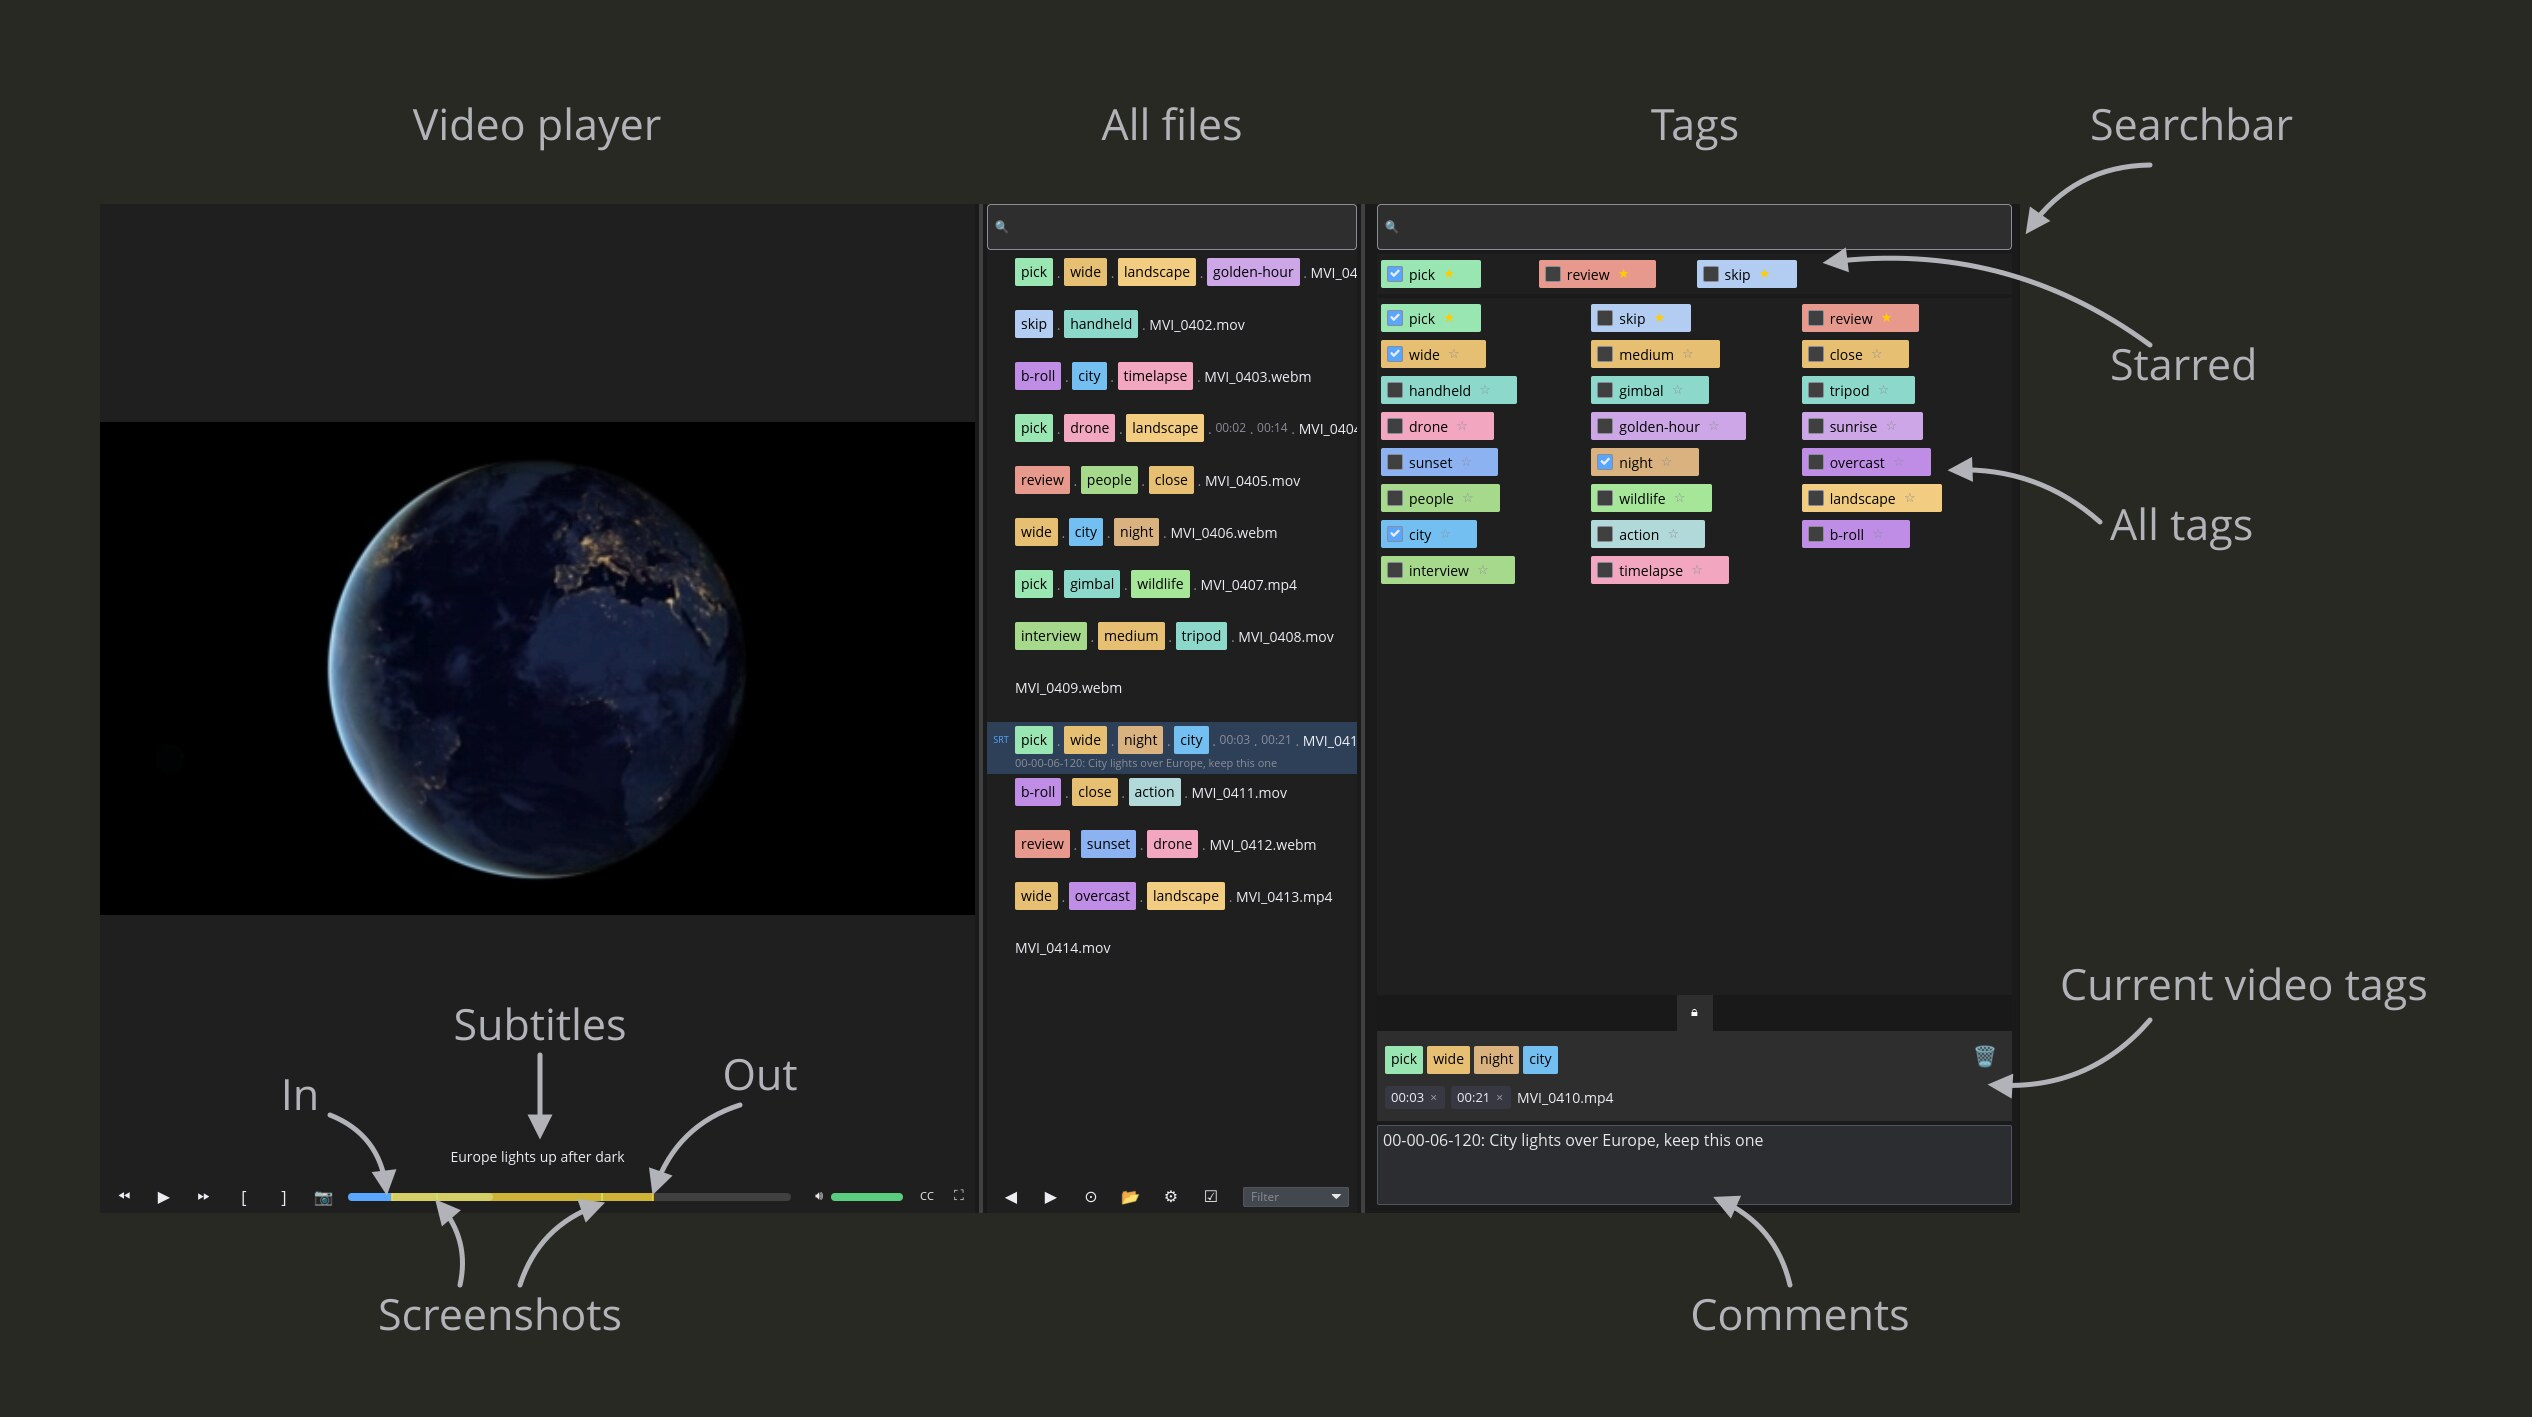
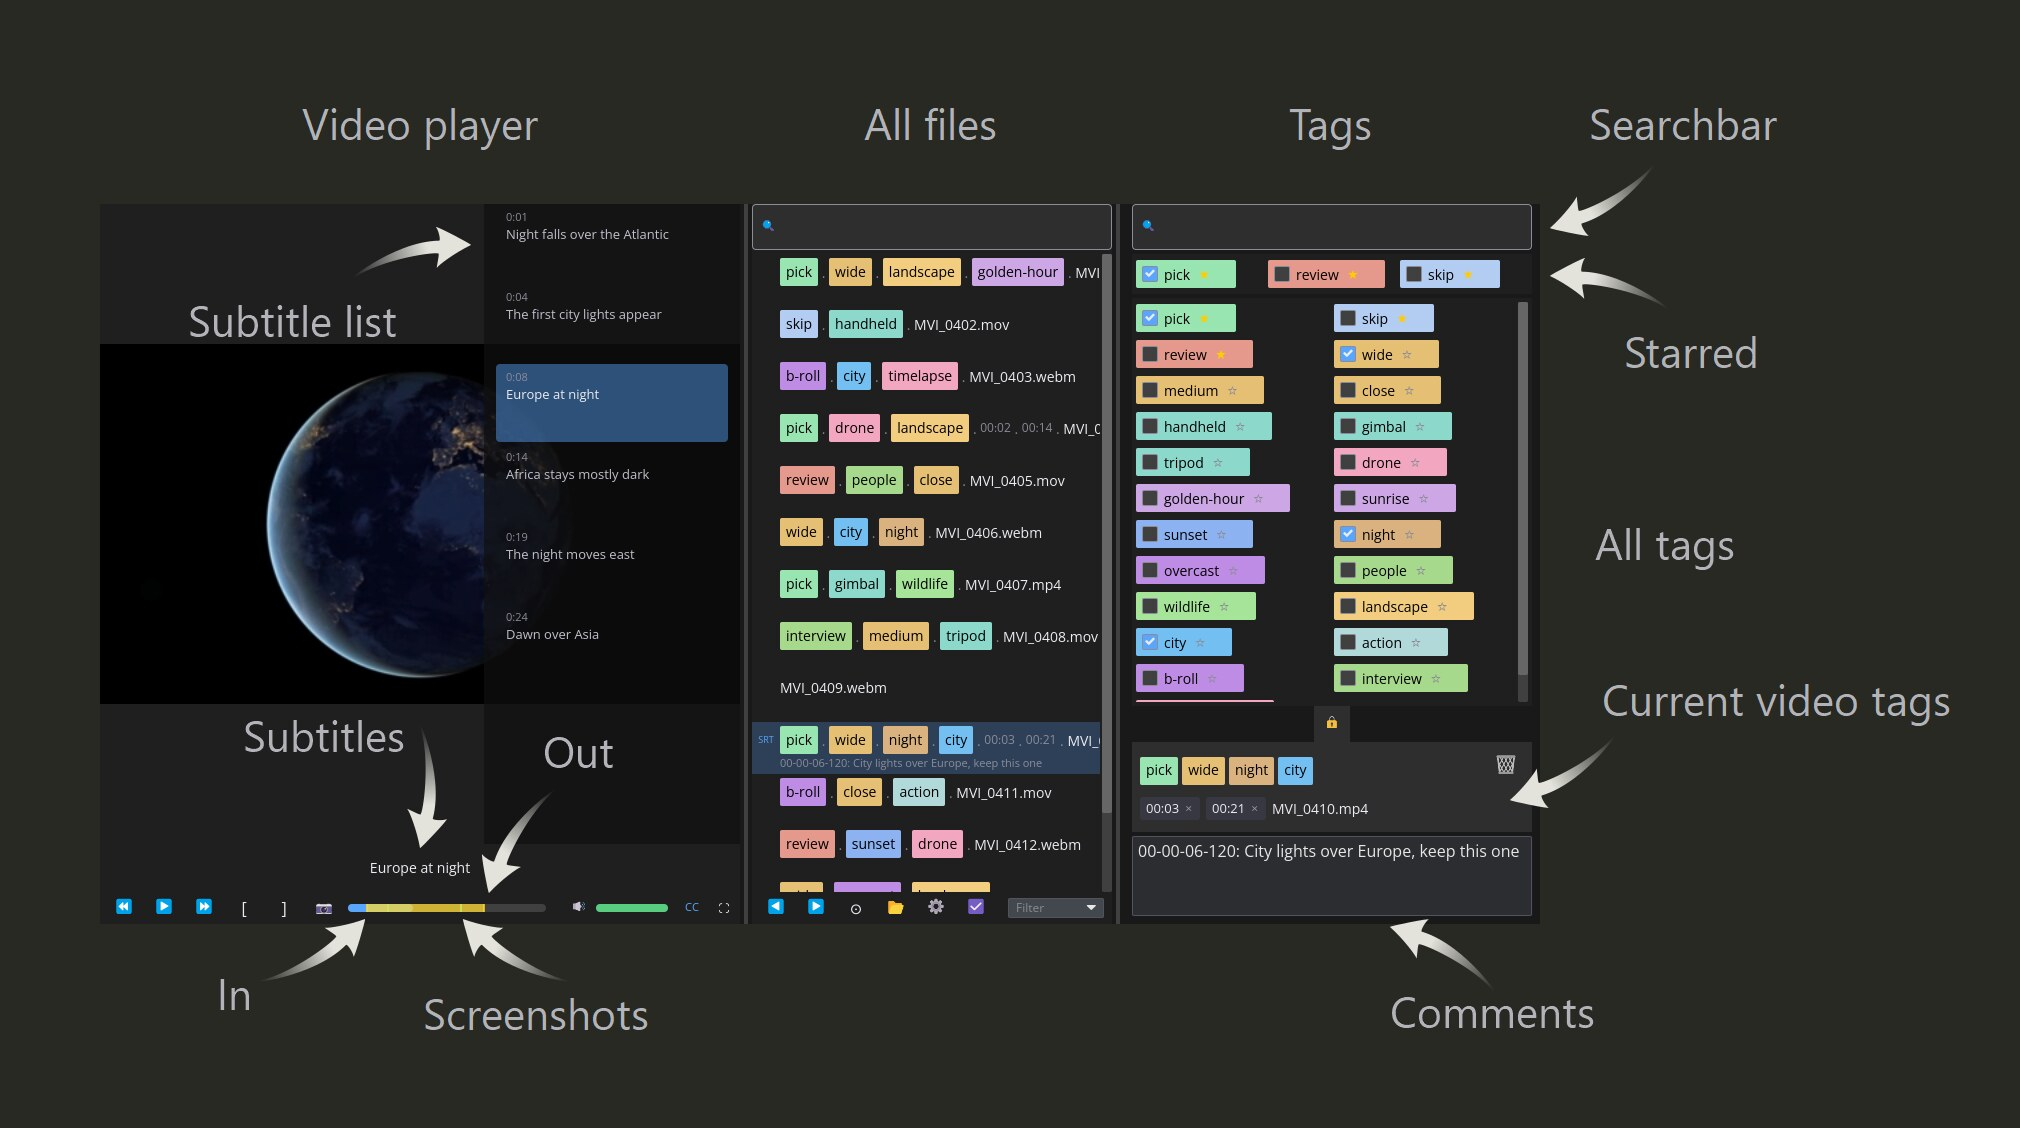
README screenshots rendered by hand, with the arrows of the original PSD
The Screenshots workflow is gone: docs/screenshots/render.sh now runs locally
(Windows Git Bash or Linux) when a change makes the images wrong.

- One arrow shape taken from docs/frename-screenshot.psd (vector path and
  fade), placed by tip and direction, only rotated or mirrored.
- Smaller window (1440x720) so every panel is full.
- The main screenshot shows the subtitle list (scenario: subtitle_list).
- New monochrome tags screenshot (demo switch --mono), in README Settings.

diff --git a/src/demo.rs b/src/demo.rs
@@ -1,6 +1,6 @@
 //! Demo mode: `frename --demo <scenario.toml> --out <png>` opens a staged folder in a known state,
-//! saves a screenshot of the main window and exits. CI uses it for the README screenshots
-//! (`docs/screenshots/`).
+//! saves a screenshot of the main window and exits. `docs/screenshots/render.sh` uses it for the
+//! README screenshots.
 //!
 //! Everything runs in a throwaway work folder: the staged clips and the app's own database and
 //! log (`FRENAME_DATA_DIR`), so the user's files and settings are never touched.
@@ -106,12 +106,15 @@ impl DemoRun {
     }
 }
 
-/// What to do once the video is ready: pause at the scenario's time, and turn on batch mode with
-/// every file checked when asked to.
+/// What to do once the video is ready: pause at the scenario's time, open the subtitle list when
+/// the scenario asks for it, and turn on batch mode with every file checked when asked to.
 fn steps(scenario: &DemoScenario, batch: bool) -> Vec<folder_workspace::Message> {
-    let mut steps = vec![folder_workspace::Message::MediaViewer(
-        media_viewer::Message::Video(video::Message::Seek(scenario.seek)),
-    )];
+    let video =
+        |message| folder_workspace::Message::MediaViewer(media_viewer::Message::Video(message));
+    let mut steps = vec![video(video::Message::Seek(scenario.seek))];
+    if scenario.subtitle_list {
+        steps.push(video(video::Message::ToggleCueList));
+    }
     if batch {
         steps.push(folder_workspace::Message::Folder(
             folder::Message::SetBatchMode(true),
@@ -140,13 +143,15 @@ fn save_png(shot: &window::Screenshot, expected: (u32, u32), path: &Path) -> Res
         .map_err(|e| format!("cannot save {}: {e}", path.display()))
 }
 
-/// What `--demo <scenario> --out <png> [--batch]` asks for.
+/// What `--demo <scenario> --out <png> [--batch] [--mono]` asks for.
 #[derive(Debug, Clone, PartialEq)]
 pub struct DemoArgs {
     pub scenario: PathBuf,
     pub out: PathBuf,
     /// Show batch mode with every file checked: one scenario gives both README screenshots.
     pub batch: bool,
+    /// Turn on the monochrome tags setting.
+    pub mono: bool,
 }
 
 /// The demo the command line asks for; `None` for a normal start.
@@ -167,6 +172,7 @@ pub fn demo_args(args: &[String]) -> Option<Result<DemoArgs, String>> {
             scenario,
             out,
             batch: args.iter().any(|a| a == "--batch"),
+            mono: args.iter().any(|a| a == "--mono"),
         })
     }))
 }
@@ -204,7 +210,13 @@ pub fn prepare(args: &DemoArgs, work: &Path) -> Result<DemoRun, String> {
     let folder = work.join("folder");
     let file = frename_core::demo::stage(&scenario, scenario_dir, &folder)
         .map_err(|e| format!("cannot stage the demo folder: {e}"))?;
-    frename_core::demo::seed(&frename_core::AppDatabase::new(), &scenario, &folder, &file);
+    frename_core::demo::seed(
+        &frename_core::AppDatabase::new(),
+        &scenario,
+        &folder,
+        &file,
+        args.mono,
+    );
     Ok(DemoRun::new(
         scenario,
         args.out.clone(),
@@ -233,17 +245,19 @@ mod tests {
             Some(Ok(DemoArgs {
                 scenario: "a.toml".into(),
                 out: "a.png".into(),
-                batch: false
+                batch: false,
+                mono: false
             }))
         );
         assert_eq!(
             demo_args(&args(&[
-                "frename", "--batch", "--out", "a.png", "--demo", "a.toml"
+                "frename", "--batch", "--out", "a.png", "--demo", "a.toml", "--mono"
             ])),
             Some(Ok(DemoArgs {
                 scenario: "a.toml".into(),
                 out: "a.png".into(),
-                batch: true
+                batch: true,
+                mono: true
             }))
         );
     }
@@ -286,6 +300,20 @@ mod tests {
         assert!(matches!(
             batch[2],
             folder_workspace::Message::Folder(folder::Message::ToggleAllChecked)
+        ));
+    }
+
+    #[test]
+    fn the_subtitle_list_opens_only_when_the_scenario_asks() {
+        let mut with_list = scenario();
+        with_list.subtitle_list = true;
+        let steps = steps(&with_list, false);
+        assert_eq!(steps.len(), 2);
+        assert!(matches!(
+            steps[1],
+            folder_workspace::Message::MediaViewer(media_viewer::Message::Video(
+                video::Message::ToggleCueList
+            ))
         ));
     }
 

diff --git a/crates/frename-core/src/demo.rs b/crates/frename-core/src/demo.rs
@@ -32,6 +32,9 @@ pub struct DemoScenario {
     /// A picture in `source` copied for every screenshot marker.
     #[serde(default)]
     pub snap_image: Option<String>,
+    /// Open the subtitle list over the picture (the CC button).
+    #[serde(default)]
+    pub subtitle_list: bool,
     /// The staged files, oldest first: the file list shows them in this order.
     pub files: Vec<DemoFile>,
 }
@@ -182,8 +185,15 @@ pub fn stage(
 
 /// Store the app state the scenario shows: window at the top left with its size and panel
 /// widths, videos paused when opened, comments in `.comment.txt` (a staged comment is one), and
-/// `file` in `folder` as the last session, so the app opens it on start.
-pub fn seed(store: &dyn AppStateStore, scenario: &DemoScenario, folder: &Path, file: &Path) {
+/// `file` in `folder` as the last session, so the app opens it on start. `monochrome_tags` turns
+/// on that setting.
+pub fn seed(
+    store: &dyn AppStateStore,
+    scenario: &DemoScenario,
+    folder: &Path,
+    file: &Path,
+    monochrome_tags: bool,
+) {
     let [width, height] = scenario.window;
     store.set_window_state(WindowGeometry {
         x: 0.0,
@@ -198,6 +208,7 @@ pub fn seed(store: &dyn AppStateStore, scenario: &DemoScenario, folder: &Path, f
     });
     store.set_app_settings(AppSettings {
         autoplay_video: false,
+        monochrome_tags,
         comment_storage: CommentStorage::TextFile,
         ..AppSettings::default()
     });
@@ -373,6 +384,7 @@ snaps = ["00-00-01-000"]
             &scenario,
             Path::new("/f"),
             Path::new("/f/pick.a.mp4"),
+            true,
         );
 
         let window = store.window.lock().unwrap().unwrap();
@@ -387,6 +399,7 @@ snaps = ["00-00-01-000"]
         assert!(!window.is_maximized);
         let settings = store.settings.lock().unwrap().clone().unwrap();
         assert!(!settings.autoplay_video);
+        assert!(settings.monochrome_tags);
         assert_eq!(settings.comment_storage, CommentStorage::TextFile);
         assert_eq!(
             store.get_last_session(),

diff --git a/.claude/skills/app-guide/SKILL.md b/.claude/skills/app-guide/SKILL.md
@@ -156,9 +156,11 @@ iced::application(FrenameApp::new)
 folder, stores the window size, panel widths and settings it asks for in a temp database
 (`FRENAME_DATA_DIR`), opens the folder, pauses the video at `seek`, optionally turns on batch mode,
 and saves a PNG of the window (iced `window::screenshot`, no window frame). Scenarios and the
-annotated templates for the README are in `docs/screenshots/`; `docs/screenshots/render.sh` renders
-them (CI: `.github/workflows/screenshots.yml`). Use it to look at a screen past the folder picker:
-write a scenario for it and run it under Xvfb.
+annotated templates for the README are in `docs/screenshots/`. The README images are rendered by
+hand with `docs/screenshots/render.sh` (Windows or Linux), only when a change makes them wrong; CI
+does not make them. Arrows in the templates are the one shape from the original PSD, only rotated
+or mirrored (see the comment in `main.svg`). Use demo mode to look at a screen past the folder
+picker: write a scenario for it and run it (under Xvfb on a headless Linux).
 
 ## Common patterns
 

diff --git a/README.md b/README.md
@@ -177,6 +177,8 @@ The ⚙ button opens Settings:
 After you change where comments or in/out points are kept, Settings offer the batch action that
 moves the existing ones.
 
+![Monochrome tags](docs/frename-screenshot-mono.jpg)
+
 ---
 
 ## Requirements
